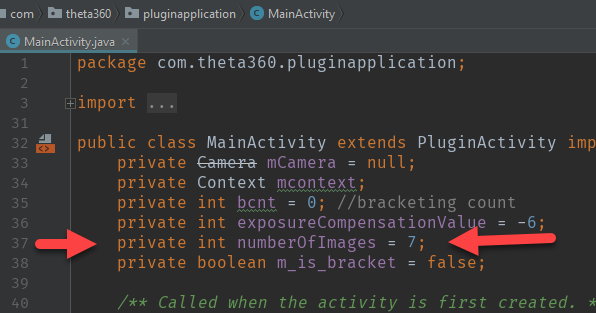
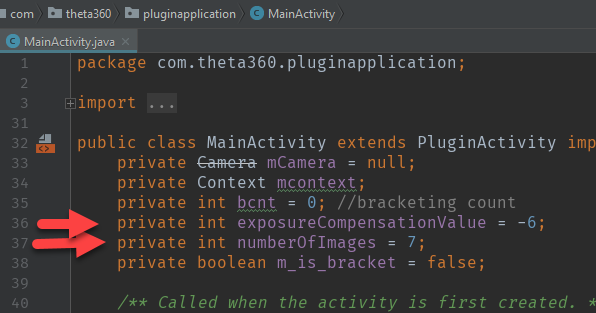
added explanation of ExposureCompensation

Changed region(s): [[0.0302, 0.6613, 0.1812, 0.8339], [0.755, 0.7188, 0.9362, 0.8339]]

diff --git a/docs/fisheye.md b/docs/fisheye.md
@@ -185,11 +185,10 @@ not make the lens parameter information available.
 
 ### Android Phone Stitching Application
 
-Ichi Hirota has produced a stitching library and Android mobile phone app that requires a one-time callibration for each camera. A trial version
-of the callibration app is available [here](https://drive.google.com/file/d/1FyXHzDXUmuuqJyNgrYt0sOa_IidDSHcC/view?usp=sharing).  This trial version of the app has a watermark.
+Ichi Hirota has produced a stitching library and Android mobile phone app that requires a one-time callibration for each camera.   
+A trial version of the mobile app apk is available in the GitHub repository you downloaded for this tutorial.
+It is under the directory [tools/stitcher](https://github.com/codetricity/original-dual-fisheye-plugin/tree/master/tools/stitcher).  This trial version of the app has a watermark.
 
-The mobile app apk is also available in the GitHub repository you downloaded for this tutorial.
-It is under the directory [tools/stitcher](https://github.com/codetricity/original-dual-fisheye-plugin/tree/master/tools/stitcher).
 
 You can commercially license Ichi's stitching library 
 and Android application.
@@ -300,11 +299,15 @@ Under `app/java/com.theta360.pluginapplication`, locate `MainActivity`.
 
 ![MainActivity](example/img/fisheye/mainactivity.png)
 
-#### 2. Add Variable for NumberOfImages
+#### 2. Add Variables for NumberOfImages and for ExposureCompensationValue
 
 In `MainActivity.java`, add an integer variable called numberOfImages and set the value to 7.
+Add a second variable for ExposureCompensationValue and set the value to -6. Later in the 
+tutorial, we will use this variable to move the exposure compensation from -6 to +6.
 
 ![NumberOfImages](example/img/fisheye/numberOfImages.png)
+
+
 
 #### 3. Reset Bracket Count
 
@@ -349,6 +352,13 @@ RICOH Camera API for exposure compensation is available at:
 We will start the exposure compensation value at -6 and adjust it up by 
 2 for each image. With 7 images, this value will be changed with these values for
 each image: -6, -4, -2, 0, 2, 4, 6.
+
+At the top of the code, we set the variable ExposureCompensationValue to -6 in step
+2 of this tutorial. The first time through the loop, the line 
+`params.setExposureCompensation(ExposureCompensationValue)` will pass the value -6,
+which corresponds to to a -2 adjustment. We increment ExposureCompensationValue by 2.
+The next time through the loop, ExposureCompensationValue will be -4, which corresponds
+to an adjustment of -1.3.
 
 The code for setting exposure compensation is shown below.
 
